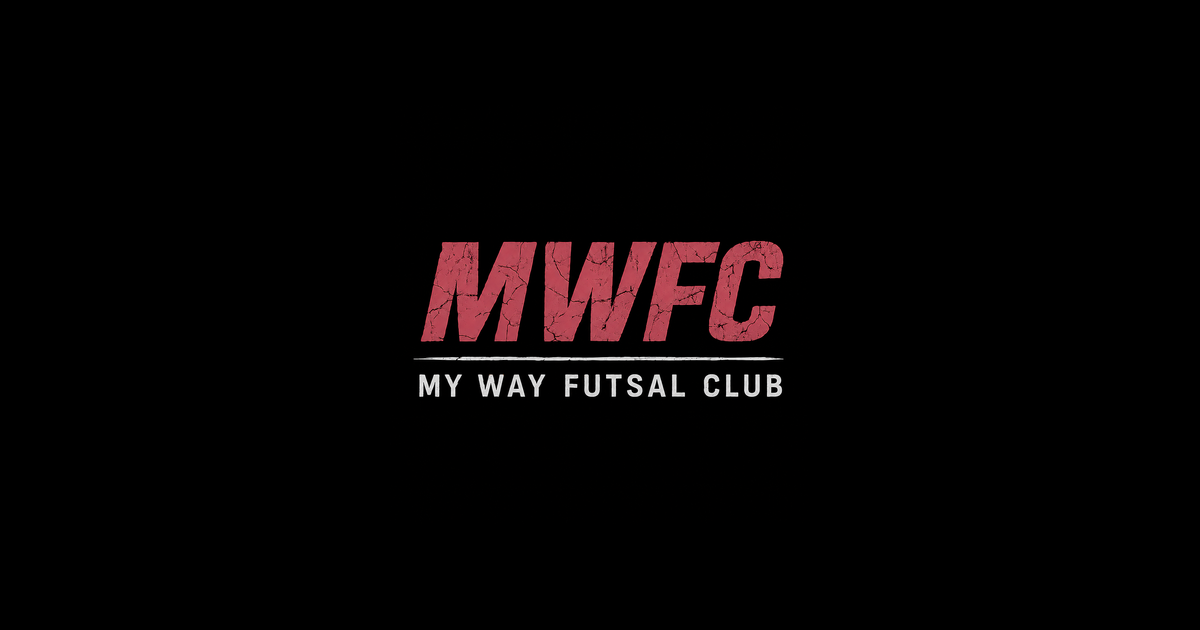
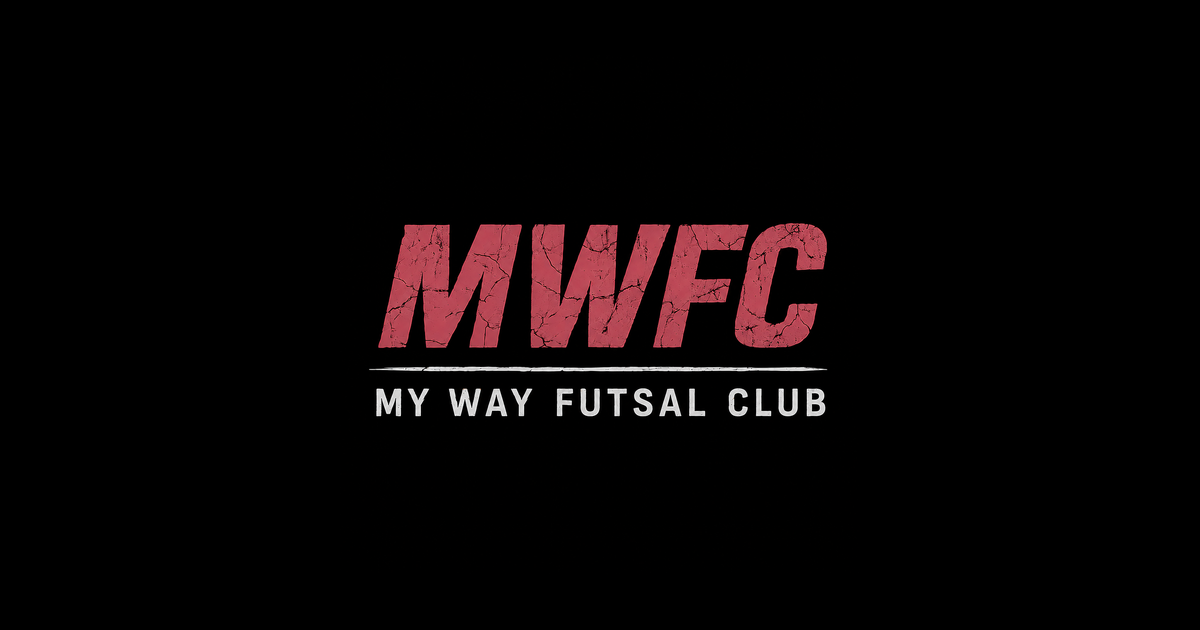
fix: meta data

Changed region(s): [[0.3083, 0.3317, 0.7092, 0.6635]]

diff --git a/index.html b/index.html
@@ -16,21 +16,23 @@
       content="팀원을 추가하고 드래그로 조를 편성하거나 랜덤으로 나눠보세요."
     />
 
+    <!-- Absolute URLs required by Twitter/X, Kakao, Discord, etc. -->
     <meta property="og:type" content="website" />
     <meta property="og:site_name" content="TEAMMAKER" />
     <meta property="og:locale" content="ko_KR" />
-    <meta property="og:url" content="%VITE_SITE_URL%/" />
+    <meta property="og:url" content="https://mwfc-feature.vercel.app/" />
     <meta property="og:title" content="TEAMMAKER — 조편성" />
     <meta
       property="og:description"
       content="팀원을 추가하고 드래그로 조를 편성하거나 랜덤으로 나눠보세요."
     />
-    <meta property="og:image" content="%VITE_SITE_URL%/og-image.png" />
-    <meta property="og:image:secure_url" content="%VITE_SITE_URL%/og-image.png" />
-    <meta property="og:image:type" content="image/png" />
+    <meta property="og:image" content="https://mwfc-feature.vercel.app/mwfc-og.jpg" />
+    <meta property="og:image:secure_url" content="https://mwfc-feature.vercel.app/mwfc-og.jpg" />
+    <meta property="og:image:type" content="image/jpeg" />
     <meta property="og:image:width" content="1200" />
     <meta property="og:image:height" content="630" />
     <meta property="og:image:alt" content="MWFC — MY WAY FUTSAL CLUB" />
+    <link rel="image_src" href="https://mwfc-feature.vercel.app/mwfc-og.jpg" />
 
     <meta name="twitter:card" content="summary_large_image" />
     <meta name="twitter:title" content="TEAMMAKER — 조편성" />
@@ -38,7 +40,8 @@
       name="twitter:description"
       content="팀원을 추가하고 드래그로 조를 편성하거나 랜덤으로 나눠보세요."
     />
-    <meta name="twitter:image" content="%VITE_SITE_URL%/og-image.png" />
+    <meta name="twitter:image" content="https://mwfc-feature.vercel.app/mwfc-og.jpg" />
+    <meta property="twitter:image" content="https://mwfc-feature.vercel.app/mwfc-og.jpg" />
     <meta name="twitter:image:alt" content="MWFC — MY WAY FUTSAL CLUB" />
   </head>
   <body>
